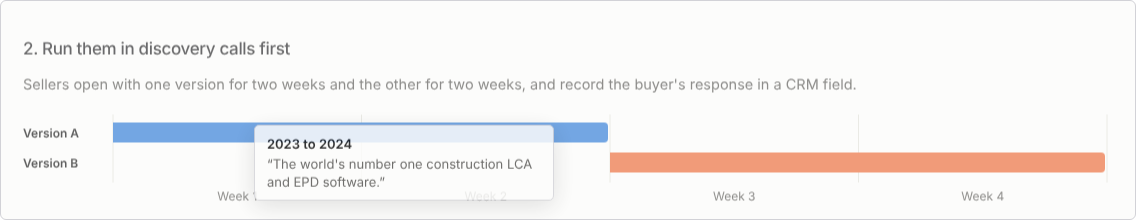
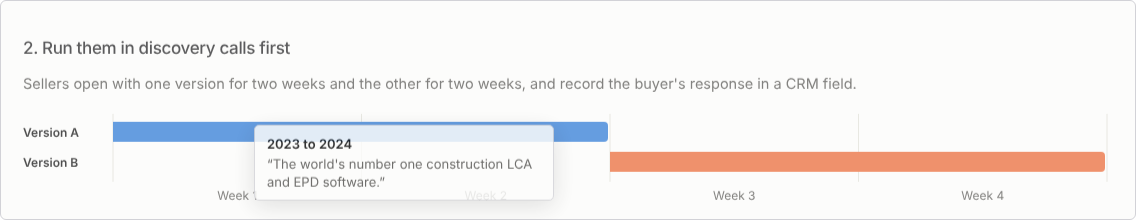
Round two fixes on segment model, alternatives and positioning
Claude-Session: https://claude.ai/code/session_01NAUAarMn3YfgT79b1Z5xEo

diff --git a/ai.html b/ai.html
@@ -39,6 +39,7 @@
 .ai-bd li{display:flex;gap:8px;align-items:center}
 .ai-bd li i{width:10px;height:10px;border-radius:2px;flex:none}
 .ai-bd p{font-size:14px;margin-top:8px}
+.ai-bw>div{min-width:0}
 @media (max-width:820px){.ai-bw{grid-template-columns:1fr}}
 #ai-bars .row{cursor:pointer}
 #ai-bars .row:focus{outline:none}
@@ -100,7 +101,7 @@
     </div>
     <div class="legend" id="ai-leg" style="margin-top:14px"></div>
     <div class="ai-bw"><div id="ai-bars"></div><div class="ai-bd" id="ai-bd" aria-live="polite"></div></div>
-    <table class="sr"><caption>Research files</caption><thead><tr><th>File</th><th>Words</th><th>One Click LCA pages</th><th>Government and EU</th><th>LinkedIn</th><th>Other sources</th></tr></thead><tbody><tr><td>Company</td><td>3,511</td><td>27</td><td>0</td><td>0</td><td>8</td></tr><tr><td>Competitors</td><td>4,333</td><td>14</td><td>2</td><td>0</td><td>86</td></tr><tr><td>Regulation</td><td>6,237</td><td>7</td><td>29</td><td>0</td><td>59</td></tr><tr><td>Team and voice</td><td>6,763</td><td>37</td><td>0</td><td>22</td><td>21</td></tr></tbody></table>
+    <div class="sr"><table><caption>Research files</caption><thead><tr><th>File</th><th>Words</th><th>One Click LCA pages</th><th>Government and EU</th><th>LinkedIn</th><th>Other sources</th></tr></thead><tbody><tr><td>Company</td><td>3,511</td><td>27</td><td>0</td><td>0</td><td>8</td></tr><tr><td>Competitors</td><td>4,333</td><td>14</td><td>2</td><td>0</td><td>86</td></tr><tr><td>Regulation</td><td>6,237</td><td>7</td><td>29</td><td>0</td><td>59</td></tr><tr><td>Team and voice</td><td>6,763</td><td>37</td><td>0</td><td>22</td><td>21</td></tr></tbody></table></div>
   </div>
   <div class="callout"><p><b>Control over trust.</b> The CEO's line on AI: "it's not based on trust. It's based on verification and control mechanism guardrails." Every claim here keeps its source.</p></div>
 </section>
@@ -182,7 +183,7 @@ var bh=document.getElementById("ai-bars"),bd=document.getElementById("ai-bd"),me
 var lgd=document.getElementById("ai-leg");
 CT.forEach(function(c,k){var b=document.createElement("button");b.type="button";b.setAttribute("aria-pressed","true");b.innerHTML='<i style="background:'+c[1]+';border-radius:2px"></i>';b.appendChild(document.createTextNode(c[0]));b.addEventListener("click",function(){coff[k]=!coff[k];b.setAttribute("aria-pressed",!coff[k]);bars()});lgd.appendChild(b)});
 function showB(){var f=F[bsel],sb=SB[bsel];bd.innerHTML='<div class="d"></div><p class="mini"></p><ul></ul><p></p>';txt(bd.querySelector(".d"),f.n);txt(bd.querySelector(".mini"),f.f+" · "+f.w.toLocaleString("en-GB")+" words · "+f.u+" unique links");
- CT.forEach(function(c,k){if(!sb[k])return;var li=document.createElement("li");li.innerHTML='<i style="background:'+c[1]+'"></i>';li.appendChild(document.createTextNode(sb[k]+" "+c[0].toLowerCase()+" ("+Math.round(sb[k]/f.u*100)+"%)"));bd.querySelector("ul").appendChild(li)});
+ CT.forEach(function(c,k){if(!sb[k])return;var li=document.createElement("li");li.innerHTML='<i style="background:'+c[1]+'"></i>';li.appendChild(document.createTextNode(sb[k]+" · "+c[0]+" ("+Math.round(sb[k]/f.u*100)+"%)"));bd.querySelector("ul").appendChild(li)});
  txt(bd.lastChild,"Most cited outside the company: "+TOPD[bsel].join(", ")+".");}
 function bars(){bh.innerHTML="";var W=Math.max(300,bh.clientWidth),nar=W<560,lw=nar?0:130,rh=nar?52:44,H=F.length*rh+24;
  var vals=F.map(function(f,i){return meas?SB[i].reduce(function(a,v,k){return a+(coff[k]?0:v)},0):f.w}),mx=meas?110:7000;

diff --git a/build/pages/ai.html b/build/pages/ai.html
@@ -17,6 +17,7 @@
 .ai-bd li{display:flex;gap:8px;align-items:center}
 .ai-bd li i{width:10px;height:10px;border-radius:2px;flex:none}
 .ai-bd p{font-size:14px;margin-top:8px}
+.ai-bw>div{min-width:0}
 @media (max-width:820px){.ai-bw{grid-template-columns:1fr}}
 #ai-bars .row{cursor:pointer}
 #ai-bars .row:focus{outline:none}
@@ -78,7 +79,7 @@
     </div>
     <div class="legend" id="ai-leg" style="margin-top:14px"></div>
     <div class="ai-bw"><div id="ai-bars"></div><div class="ai-bd" id="ai-bd" aria-live="polite"></div></div>
-    <table class="sr"><caption>Research files</caption><thead><tr><th>File</th><th>Words</th><th>One Click LCA pages</th><th>Government and EU</th><th>LinkedIn</th><th>Other sources</th></tr></thead><tbody><tr><td>Company</td><td>3,511</td><td>27</td><td>0</td><td>0</td><td>8</td></tr><tr><td>Competitors</td><td>4,333</td><td>14</td><td>2</td><td>0</td><td>86</td></tr><tr><td>Regulation</td><td>6,237</td><td>7</td><td>29</td><td>0</td><td>59</td></tr><tr><td>Team and voice</td><td>6,763</td><td>37</td><td>0</td><td>22</td><td>21</td></tr></tbody></table>
+    <div class="sr"><table><caption>Research files</caption><thead><tr><th>File</th><th>Words</th><th>One Click LCA pages</th><th>Government and EU</th><th>LinkedIn</th><th>Other sources</th></tr></thead><tbody><tr><td>Company</td><td>3,511</td><td>27</td><td>0</td><td>0</td><td>8</td></tr><tr><td>Competitors</td><td>4,333</td><td>14</td><td>2</td><td>0</td><td>86</td></tr><tr><td>Regulation</td><td>6,237</td><td>7</td><td>29</td><td>0</td><td>59</td></tr><tr><td>Team and voice</td><td>6,763</td><td>37</td><td>0</td><td>22</td><td>21</td></tr></tbody></table></div>
   </div>
   <div class="callout"><p><b>Control over trust.</b> The CEO's line on AI: "it's not based on trust. It's based on verification and control mechanism guardrails." Every claim here keeps its source.</p></div>
 </section>
@@ -160,7 +161,7 @@ var bh=document.getElementById("ai-bars"),bd=document.getElementById("ai-bd"),me
 var lgd=document.getElementById("ai-leg");
 CT.forEach(function(c,k){var b=document.createElement("button");b.type="button";b.setAttribute("aria-pressed","true");b.innerHTML='<i style="background:'+c[1]+';border-radius:2px"></i>';b.appendChild(document.createTextNode(c[0]));b.addEventListener("click",function(){coff[k]=!coff[k];b.setAttribute("aria-pressed",!coff[k]);bars()});lgd.appendChild(b)});
 function showB(){var f=F[bsel],sb=SB[bsel];bd.innerHTML='<div class="d"></div><p class="mini"></p><ul></ul><p></p>';txt(bd.querySelector(".d"),f.n);txt(bd.querySelector(".mini"),f.f+" · "+f.w.toLocaleString("en-GB")+" words · "+f.u+" unique links");
- CT.forEach(function(c,k){if(!sb[k])return;var li=document.createElement("li");li.innerHTML='<i style="background:'+c[1]+'"></i>';li.appendChild(document.createTextNode(sb[k]+" "+c[0].toLowerCase()+" ("+Math.round(sb[k]/f.u*100)+"%)"));bd.querySelector("ul").appendChild(li)});
+ CT.forEach(function(c,k){if(!sb[k])return;var li=document.createElement("li");li.innerHTML='<i style="background:'+c[1]+'"></i>';li.appendChild(document.createTextNode(sb[k]+" · "+c[0]+" ("+Math.round(sb[k]/f.u*100)+"%)"));bd.querySelector("ul").appendChild(li)});
  txt(bd.lastChild,"Most cited outside the company: "+TOPD[bsel].join(", ")+".");}
 function bars(){bh.innerHTML="";var W=Math.max(300,bh.clientWidth),nar=W<560,lw=nar?0:130,rh=nar?52:44,H=F.length*rh+24;
  var vals=F.map(function(f,i){return meas?SB[i].reduce(function(a,v,k){return a+(coff[k]?0:v)},0):f.w}),mx=meas?110:7000;

diff --git a/build/pages/positioning.html b/build/pages/positioning.html
@@ -181,7 +181,7 @@ function arc(){if(VZ.hideTip)VZ.hideTip();ahost.innerHTML="";lanes=[];var w=Math
   VZ.tip(g,function(){return "<b>"+d[4]+"</b><span class='m'>"+d[3]+"</span>"});lanes.push(g)});
  if(!m){var et=VZ.el("text",{x:0,y:evY+5},s);et.style.fill="var(--ink2)";et.textContent="Events"}
  E.forEach(function(e,i){var g=VZ.el("g",{class:"ps-ev","aria-label":e[1]+": "+e[2]},s),x=X(e[0]),y=ys[i];
-  VZ.el("line",{x1:x,x2:x,y1:y0,y2:y,stroke:"var(--axis)","stroke-width":1},g);VZ.el("circle",{cx:x,cy:y,r:10,fill:"var(--ink1)",stroke:"var(--ring)","stroke-width":2},g);
+  VZ.el("line",{x1:x,x2:x,y1:evY-14,y2:y,stroke:"var(--axis)","stroke-width":1},g);VZ.el("circle",{cx:x,cy:y,r:10,fill:"var(--ink1)",stroke:"var(--ring)","stroke-width":2},g);
   var t=VZ.el("text",{x:x,y:y+4,"text-anchor":"middle"},g);t.style.fill="var(--chart-bg)";t.style.fontWeight="600";t.textContent=i+1;
   VZ.tip(g,function(){return "<b>"+e[1]+"</b><span class='m'>"+e[2]+"</span>"})});
  var d=L[selL];$("arcd").innerHTML='<span class="eyebrow">'+d[4]+' · '+d[0]+'</span><p class="q">'+d[3]+'</p><p class="r">'+d[5]+'</p>'}

diff --git a/positioning.html b/positioning.html
@@ -203,7 +203,7 @@ function arc(){if(VZ.hideTip)VZ.hideTip();ahost.innerHTML="";lanes=[];var w=Math
   VZ.tip(g,function(){return "<b>"+d[4]+"</b><span class='m'>"+d[3]+"</span>"});lanes.push(g)});
  if(!m){var et=VZ.el("text",{x:0,y:evY+5},s);et.style.fill="var(--ink2)";et.textContent="Events"}
  E.forEach(function(e,i){var g=VZ.el("g",{class:"ps-ev","aria-label":e[1]+": "+e[2]},s),x=X(e[0]),y=ys[i];
-  VZ.el("line",{x1:x,x2:x,y1:y0,y2:y,stroke:"var(--axis)","stroke-width":1},g);VZ.el("circle",{cx:x,cy:y,r:10,fill:"var(--ink1)",stroke:"var(--ring)","stroke-width":2},g);
+  VZ.el("line",{x1:x,x2:x,y1:evY-14,y2:y,stroke:"var(--axis)","stroke-width":1},g);VZ.el("circle",{cx:x,cy:y,r:10,fill:"var(--ink1)",stroke:"var(--ring)","stroke-width":2},g);
   var t=VZ.el("text",{x:x,y:y+4,"text-anchor":"middle"},g);t.style.fill="var(--chart-bg)";t.style.fontWeight="600";t.textContent=i+1;
   VZ.tip(g,function(){return "<b>"+e[1]+"</b><span class='m'>"+e[2]+"</span>"})});
  var d=L[selL];$("arcd").innerHTML='<span class="eyebrow">'+d[4]+' · '+d[0]+'</span><p class="q">'+d[3]+'</p><p class="r">'+d[5]+'</p>'}
